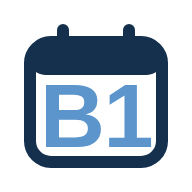
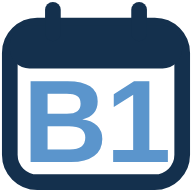
v0.39.7: 아이콘 흰 바탕 삭제·크게
Claude-Session: https://claude.ai/code/session_01WvFXUWRTCTEqULyFH2A7bo

diff --git a/index.html b/index.html
@@ -4,9 +4,9 @@
 <meta charset="utf-8">
 <meta name="viewport" content="width=device-width, initial-scale=1, viewport-fit=cover">
 <title>B1 음악 연습실 예약</title>
-<link rel="icon" type="image/png" sizes="32x32" href="favicon-32.png?v=1">
-<link rel="icon" type="image/png" sizes="192x192" href="icon-192.png?v=1">
-<link rel="apple-touch-icon" sizes="180x180" href="apple-touch-icon.png?v=1">
+<link rel="icon" type="image/png" sizes="32x32" href="favicon-32.png?v=2">
+<link rel="icon" type="image/png" sizes="192x192" href="icon-192.png?v=2">
+<link rel="apple-touch-icon" sizes="180x180" href="apple-touch-icon.png?v=2">
 <link rel="preconnect" href="https://fonts.googleapis.com">
 <link href="https://fonts.googleapis.com/css2?family=Noto+Sans+KR:wght@400;500;700;900&display=swap" rel="stylesheet">
 <style>
@@ -346,7 +346,7 @@ select:focus-visible{outline:3px solid var(--accent-strong);outline-offset:2px}
 <script>
 "use strict";
 /* 화면 버전: 프런트엔드를 고칠 때마다 올립니다(작은 수정은 마지막 숫자, 기능 추가는 가운데 숫자). */
-const APP_VERSION="v0.39.6";
+const APP_VERSION="v0.39.7";
 /* Supabase 연결 정보: 공개용 주소와 공개용 키(Publishable)만 넣습니다. secret·service_role 키는 절대 넣지 않습니다.
    규칙(중복, 하루 횟수, 상품 횟수, 비밀번호 확인)은 모두 서버 함수가 최종 결정합니다. */
 const SUPABASE_URL="https://ibcvbnpqmlqmdwxkepbl.supabase.co";

diff --git a/CLAUDE.md b/CLAUDE.md
@@ -263,6 +263,7 @@
   - v0.39.4: **관리자 예약 목록 카드 배치 변경**(사용자 요청): 왼쪽 3줄 ① 오늘/내일 + 날짜(요일) ② 시간 ③ 이름 + 배지, 오른쪽에 [입금 확인] → [취소] 순서(세로로 쌓임). **배지 순서**: 구분 → 정액권·횟수권 → 슈퍼패스 → 블랙리스트·블랙리스트 이력(항상 맨 오른쪽, 지난·취소된 예약 줄도 같음, `resBadges`). **[입금 확인]을 누르면 "입금 확인하시겠습니까?" 확인 창**, 확인한 뒤에는 버튼이 사라짐(v0.39.1의 [입금 확인 취소] 삭제, 서버의 되돌리기 기능은 남아 있음). 오늘 끝난 예약의 **"이용 시간 지남" 글자 삭제**(흐린 모양은 그대로, 관리자 취소 사유는 그대로 보임). Chromium(흉내 낸 서버) 확인: 배치·버튼 순서, 확인 창 문구, 확인 뒤 [취소]만 남음, 배지 순서, 화면 오류 없음(확인함). Supabase 작업 없음.
   - v0.39.5: "입금 확인 안 된 예약" 칸의 **설명 문구 삭제**(사용자 요청: "일반회원이 정액권·횟수권 없이 이용한 예약 중…지난 예약으로 옮겨집니다."). 화면 오류 없음 확인(Chromium, 흉내 낸 서버). Supabase 작업 없음.
   - v0.39.6: **파비콘·홈 화면 아이콘**(사용자 요청·선택: 시안 D-2). 흰 바탕 둥근 네모 + 남색 달력 + 달력 칸을 채우는 하늘색(#5b95cc) 굵은 "B1". 파일: `favicon-32.png`(브라우저 탭), `icon-192.png`·`icon-512.png`, `apple-touch-icon.png`(180, 아이폰 홈 화면, 모서리는 아이폰이 둥글게 깎음), 원본 `favicon.svg`(글꼴에 따라 모양이 달라질 수 있어 화면에는 PNG만 연결). `index.html` 머리에 `<link rel="icon">`·`apple-touch-icon` 추가(`?v=1`, 그림을 바꾸면 숫자를 올려 휴대폰 캐시를 넘김). 이미 만든 홈 화면 아이콘은 지우고 다시 추가해야 새 그림. 확인함: 로컬 서버에서 세 그림 파일 정상 응답, 미리 보기 그림. 실제 휴대폰·브라우저 탭 표시는 사용자 확인 대기. Supabase 작업 없음.
+  - v0.39.7: 아이콘 수정(사용자 요청): **흰 바탕 네모 삭제, 달력을 더 크게**(그림 칸을 거의 꽉 채움). 탭·안드로이드 아이콘(`favicon-32.png`·`icon-192/512.png`)은 바깥이 투명, 달력 안(B1 칸)만 흰색이라 어두운 탭에서도 보임. 아이폰 홈 화면(`apple-touch-icon.png`)은 투명한 곳을 아이폰이 검게 칠해서 흰 바탕을 남기고 달력만 키움. 캐시를 넘기려고 `?v=2`. 미리 보기(밝은 탭·어두운 탭·안드로이드·아이폰 모양) 확인(확인함). 실제 기기 확인은 사용자 대기. Supabase 작업 없음.
 - **2026-11-03 개인 도메인 `room.hyunmusic.com` 연결 완료.** 사용자가 아임웹 [네임서버 설정]에 CNAME `room.hyunmusic.com` → `hyunmusic2016.github.io` 추가, GitHub Pages Custom domain 저장(DNS check successful, 새로고침하면 다시 확인 중으로 보이는 것은 정상). 확인함: 저장소에 `CNAME` 파일(`room.hyunmusic.com`) 생성, 배포 성공. 사용자가 새 주소로 열어 정상 동작 보고. `imweb-snippet.html`의 주소·허용 주소(ORIGIN)도 새 주소로. 사용자 확인: 옛 주소(`…github.io/b1-music-room/`)를 열면 새 주소로 넘어감. Enforce HTTPS 체크함(사용자). 남은 일: 관리자 새 주소 로그인·홈 화면 아이콘·공유 링크 교체(사용자). 이전 기록: 2026-11-02 개인 도메인 `room.hyunmusic.com` 연결 진행 중(사용자 결정: 방법 1, 내일 이어서).** 도메인은 아임웹에서 구매(네임서버 `ens1~4.hostcocoa.com`). 레코드 넣는 곳 확인함(사용자 캡처): 아임웹 관리자 > 도메인 > hyunmusic.com 아래 **[네임서버 설정]** 창의 레코드 표(기존 A `hyunmusic.com`·A `www.hyunmusic.com` "자동 설정" — 건드리지 않음). 남은 일: ① 사용자: [레코드 추가] → 타입 CNAME, 이름 `room.hyunmusic.com`, 값 `hyunmusic2016.github.io` → [저장], 저장 후 캡처 ② 사용자: GitHub `b1-music-room` Settings > Pages > Custom domain `room.hyunmusic.com` → DNS check 성공 후 Enforce HTTPS ③ 나: GitHub가 만든 `CNAME` 파일 받아 오기, 문서·`imweb-snippet.html` 주소 변경, 옛 주소 넘어가는지 확인 ④ 사용자: 새 주소에서 관리자 다시 로그인, 홈 화면 아이콘·링크 교체. ⋯ 메뉴의 [연결 해제]와 네임서버 값은 절대 건드리지 않게 안내함.
 - **2026-11-03 이용자 삭제 실제 확인(사용자, ★★ ①).** 시험용 일반회원(횟수권) 등록 → 관리자 일반예약 → [이용자 삭제] → 목록 복귀·안내, 예약이 "관리자 취소: 이용자 삭제"로 취소, 내 예약에서 취소 사유 조회, 공개 예약 막힘까지 사용자가 "다 잘 된다"고 보고(캡처 없음). 안내함: 삭제된 이용자의 예약 기록은 예약 날짜 + 30일까지 내 예약에서 조회되고, 그다음 날 03:10 자동 정리로 지워짐(상품이 함께 지워져 상품 종료 기준 연장 없음). 남은 ★★: ③ 휴대폰 화면들.
 - **2026-11-03 [가격표] 실제 확인(사용자, ★★ ②).** 종류 없음일 때 막힘, 고른 종류·구분의 표만, 줄 누르면 횟수·30일 채움, 가격표 기준 금액(×2, 30일 단위 아님, 표에 없는 횟수), 재원생 표, 사용 중 상품 수정까지 사용자가 "잘 된다"고 보고(캡처 없음).
